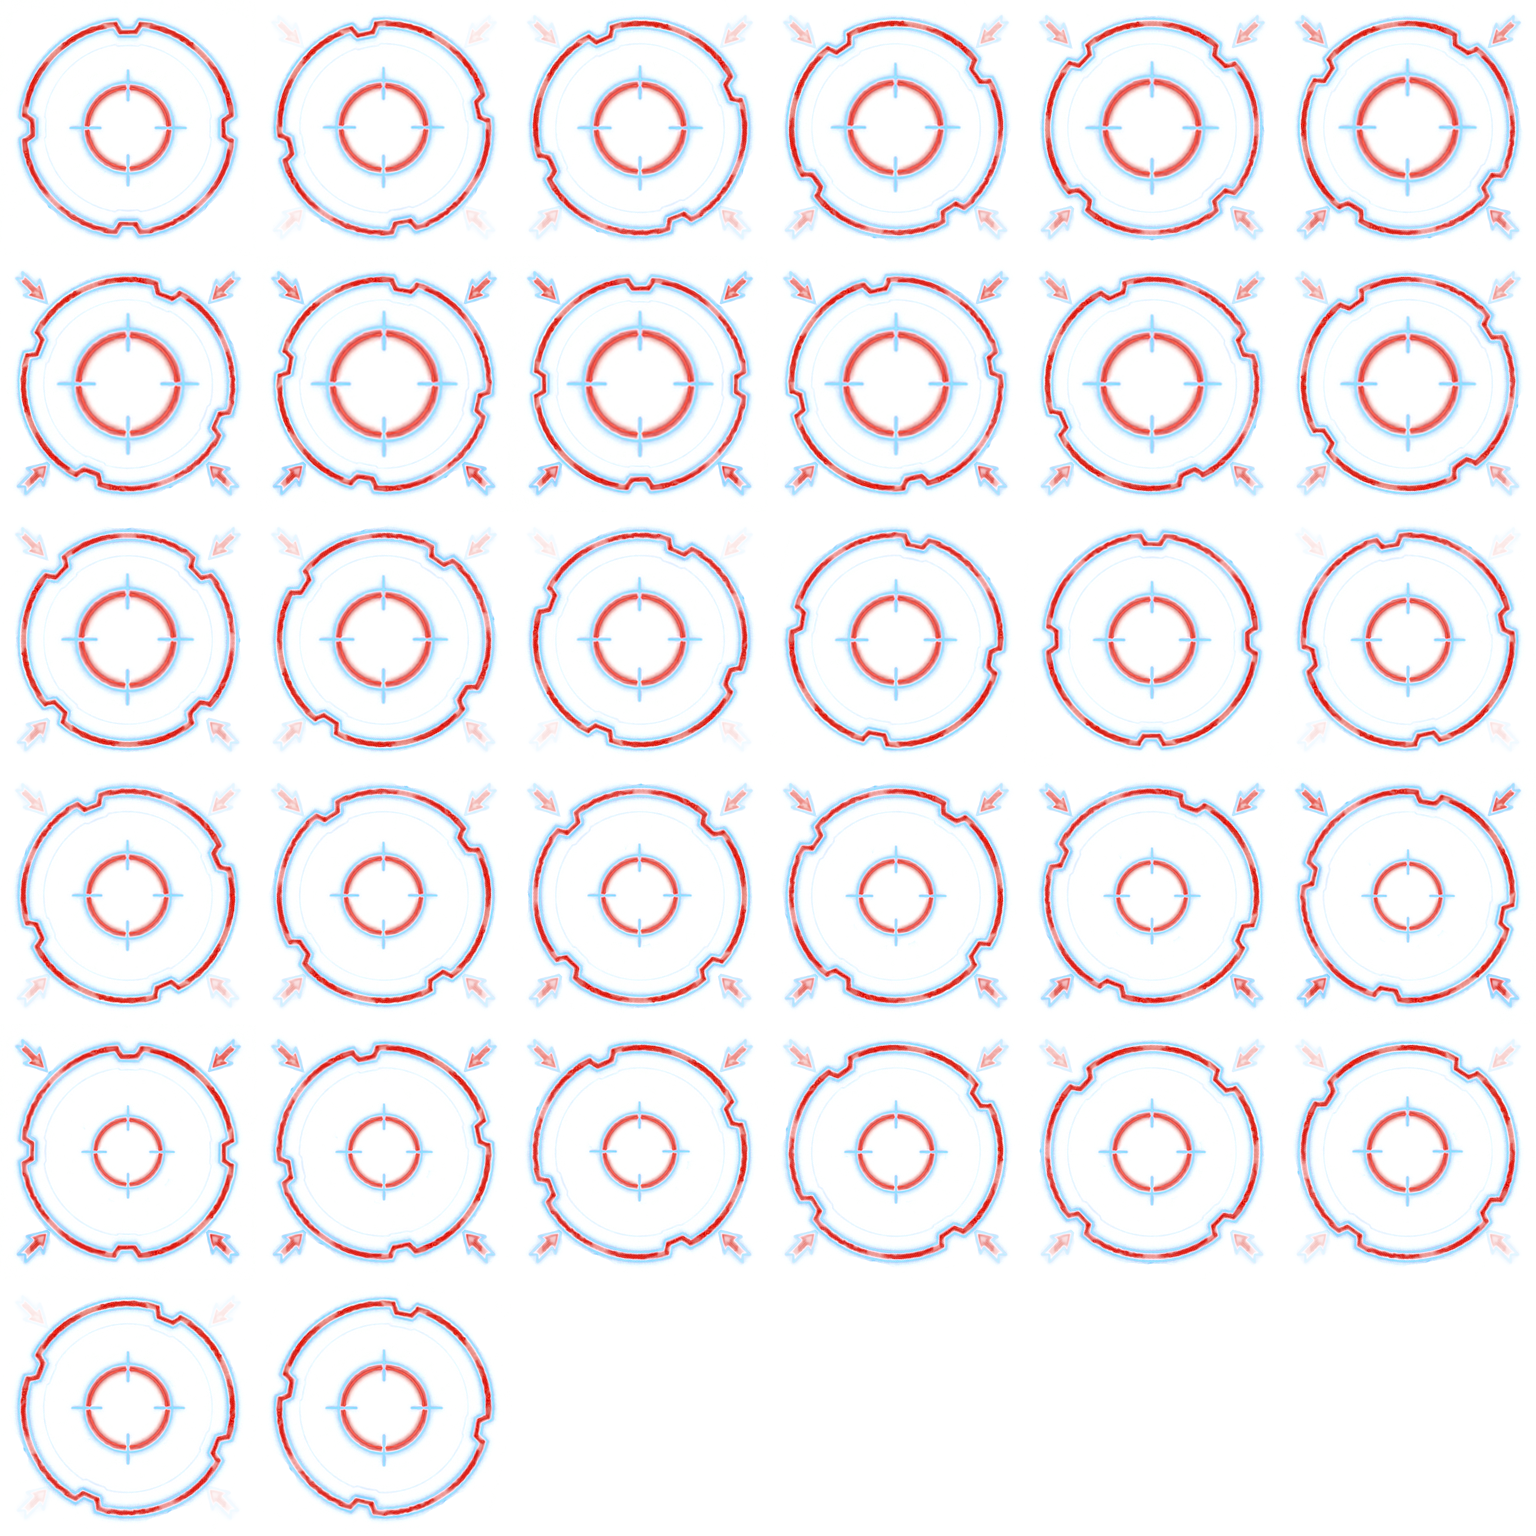
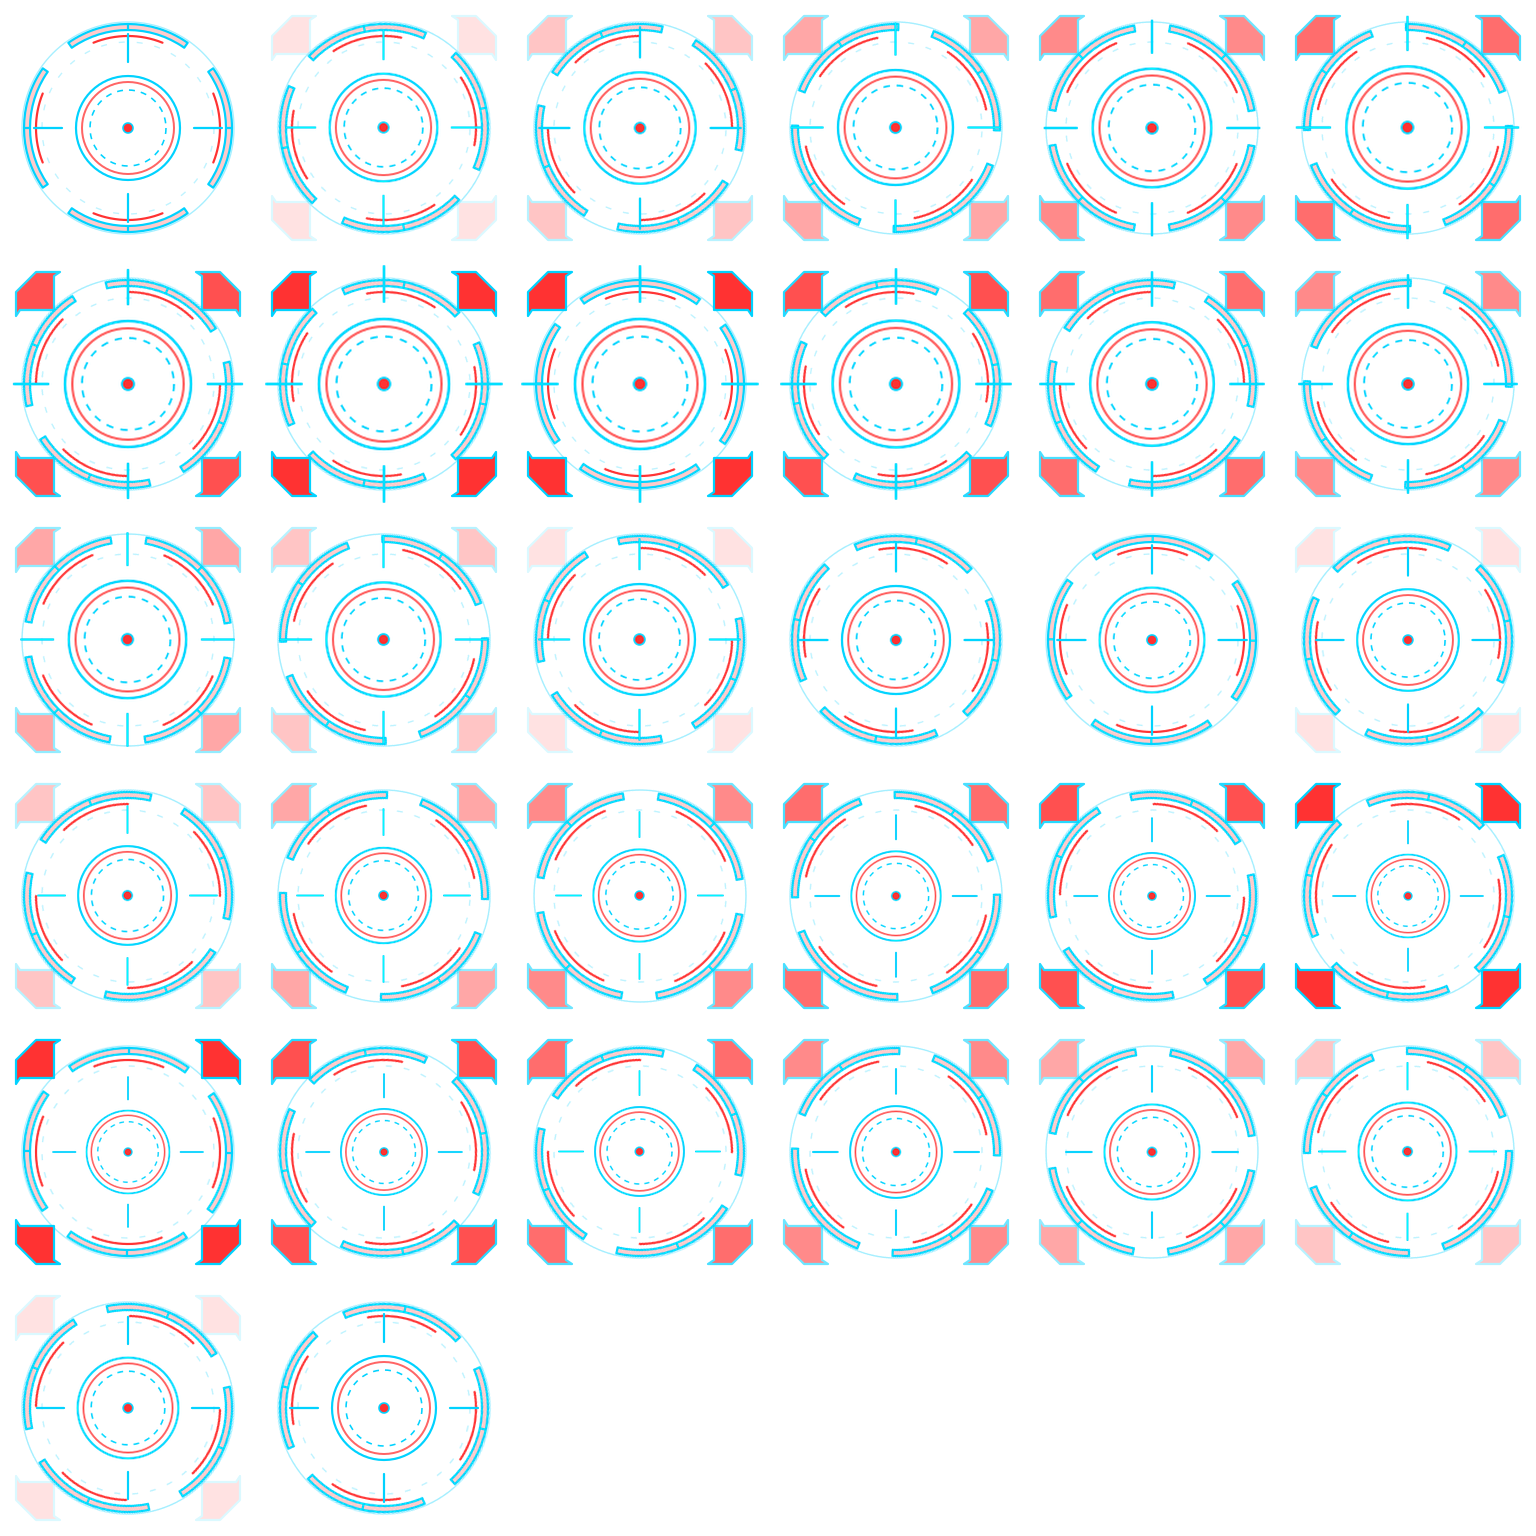
Convert selection reticles to vector SVGs and fix multi-span bitmap scaling
- Convert selection-arrows, selection-outline, selection-reticle, and selection-2 from AI cutouts to clean vector SVGs with exact 4-fold rotational and reflectional symmetry
- Create tools/svg_reticle_gen.py with automatic stroke-width scaling (256 / size) to ensure uniform line thickness (~2px) across all entity spans (1x1 through 4x4)
- Update art/gen_ui.sh to generate span-specific 32-frame animated spritesheets (ui-selection-1x1..4x4 and ui-selection-mod-1x1..4x4)
- Register new multi-span reticle assets in src/resources/tileset-geometry.ts
- Update TileActor to dynamically resolve selectionTile references to the entity's exact grid span without bitmap scaling artifacts
- Remove unreferenced legacy source PNGs from art/ui/

Changed region(s): [[0.0, 0.0, 1.0, 1.0]]

diff --git a/src/scene/tile-actor.ts b/src/scene/tile-actor.ts
@@ -169,6 +169,30 @@ export class TileActor extends ex.Actor {
     this.graphics.use(graphic);
   }
 
+  private resolveSelectionTileRef(ref: TileRef): TileRef {
+    const span = Math.max(1, Math.min(4, Math.max(this.colSpan, this.rowSpan)));
+    if (typeof ref === "string") {
+      if (ref === "ui-selection" || ref.startsWith("ui-selection:")) {
+        const id = ref.includes(":") ? ref.split(":")[1] : "0";
+        return `ui-selection-${span}x${span}:${id}`;
+      }
+      if (ref === "ui-selection-2" || ref.startsWith("ui-selection-2:")) {
+        const id = ref.includes(":") ? ref.split(":")[1] : "0";
+        return `ui-selection-mod-${span}x${span}:${id}`;
+      }
+      return ref;
+    }
+    if (typeof ref === "object" && ref !== null) {
+      if (ref.tile === "ui-selection") {
+        return { ...ref, tile: `ui-selection-${span}x${span}` };
+      }
+      if (ref.tile === "ui-selection-2") {
+        return { ...ref, tile: `ui-selection-mod-${span}x${span}` };
+      }
+    }
+    return ref;
+  }
+
   private setSelectionVisible(visible: boolean): void {
     for (const v of this.selectionVisuals) {
       v.graphics.isVisible = visible;
@@ -302,7 +326,8 @@ export class TileActor extends ex.Actor {
     });
 
     if (this.selectionTile !== null) {
-      const selGraphic = parseTileRef(this.selectionTile);
+      const resolvedRef = this.resolveSelectionTileRef(this.selectionTile);
+      const selGraphic = parseTileRef(resolvedRef);
       const selActor = new ex.Actor({
         anchor: ex.vec(0.5, 0.5),
         scale: ex.vec(

diff --git a/src/resources/tileset-geometry.ts b/src/resources/tileset-geometry.ts
@@ -47,7 +47,15 @@ export const TILESET_GEOMETRY: TilesetGeometry[] = [
   { name: "test-tileset", cols: 4, rows: 1, tileSize: 32 },
   { name: "ship-tiles", cols: 6, rows: 6, tileSize: 64 },
   { name: "ui-selection", tileSize: 256, ...CANONICAL_ANIM },
+  { name: "ui-selection-1x1", tileSize: 64, ...CANONICAL_ANIM },
+  { name: "ui-selection-2x2", tileSize: 128, ...CANONICAL_ANIM },
+  { name: "ui-selection-3x3", tileSize: 192, ...CANONICAL_ANIM },
+  { name: "ui-selection-4x4", tileSize: 256, ...CANONICAL_ANIM },
   { name: "ui-selection-2", tileSize: 256, ...CANONICAL_ANIM },
+  { name: "ui-selection-mod-1x1", tileSize: 64, ...CANONICAL_ANIM },
+  { name: "ui-selection-mod-2x2", tileSize: 128, ...CANONICAL_ANIM },
+  { name: "ui-selection-mod-3x3", tileSize: 192, ...CANONICAL_ANIM },
+  { name: "ui-selection-mod-4x4", tileSize: 256, ...CANONICAL_ANIM },
   { name: "ss1-base", tileSize: 256, ...CANONICAL_ANIM },
   { name: "ss1-damaged", tileSize: 256, ...CANONICAL_ANIM },
   { name: "cs1-base", tileSize: 64, ...CANONICAL_ANIM },

diff --git a/tools/svg_reticle_gen.py b/tools/svg_reticle_gen.py
@@ -1,0 +1,129 @@
+#!/usr/bin/env python3
+"""
+SVG Reticle Generator
+
+Reads a selection reticle SVG file (e.g. selection-arrows.svg, selection-outline.svg,
+selection-reticle.svg, selection-2.svg), substitutes #COLOR1 and #COLOR2 with hex
+colors, automatically scales stroke-width across target sizes (64px, 128px, 192px, 256px)
+so that line thickness in rendered screen pixels is exactly consistent among all 4 sizes,
+and renders to a PNG using rsvg-convert.
+
+Usage:
+    python3 svg_reticle_gen.py \
+        --source art/ui/selection-arrows.svg \
+        --size 64 \
+        --dest art/ui/rendered/selection-arrows-64.png \
+        --color1 "#FFFFFF" --color2 "#00d2ff"
+"""
+
+import argparse
+import os
+import re
+import shutil
+import subprocess
+import sys
+import tempfile
+import uuid
+from PIL import Image
+
+
+def find_rsvg_convert() -> str | None:
+    """Return the explicitly supported SVG renderer from librsvg."""
+    return shutil.which("rsvg-convert")
+
+
+def render_svg_to_image(svg_content: str, width: int, height: int, work_dir: str) -> Image.Image:
+    unique_id = uuid.uuid4().hex
+    tmp_svg = os.path.join(work_dir, f"temp_reticle_{unique_id}.svg")
+    tmp_png = os.path.join(work_dir, f"temp_reticle_{unique_id}.png")
+
+    try:
+        with open(tmp_svg, "w", encoding="utf-8") as f:
+            f.write(svg_content)
+
+        rsvg_bin = find_rsvg_convert()
+        if not rsvg_bin:
+            raise RuntimeError(
+                "SVG rendering requires rsvg-convert from librsvg; install it with `brew install librsvg`."
+            )
+
+        result = subprocess.run(
+            [rsvg_bin, "-w", str(width), "-h", str(height), tmp_svg, "-o", tmp_png],
+            capture_output=True,
+            text=True,
+        )
+        if result.returncode != 0:
+            diagnostics = result.stderr.strip() or result.stdout.strip() or "no diagnostic output"
+            raise RuntimeError(
+                f"rsvg-convert failed with exit code {result.returncode}: {diagnostics}"
+            )
+        if not os.path.exists(tmp_png):
+            raise RuntimeError("rsvg-convert exited successfully but did not produce a PNG output file.")
+        return Image.open(tmp_png).convert("RGBA")
+    finally:
+        if os.path.exists(tmp_svg):
+            os.remove(tmp_svg)
+        if os.path.exists(tmp_png):
+            os.remove(tmp_png)
+
+
+def adjust_stroke_widths(svg_content: str, size: int) -> str:
+    """
+    Scale all stroke-width values by (256.0 / size) so that lines maintain an exact,
+    consistent thickness in rendered output screen pixels across all 4 sizes
+    (64px, 128px, 192px, 256px).
+    """
+    scale_factor = 256.0 / float(size)
+    if abs(scale_factor - 1.0) < 1e-4:
+        return svg_content
+
+    def repl(match):
+        val = float(match.group(1))
+        new_val = val * scale_factor
+        return f'stroke-width="{new_val:.2f}"'
+
+    return re.sub(r'stroke-width="([\d.]+)"', repl, svg_content)
+
+
+def main():
+    parser = argparse.ArgumentParser(description="Render SVG selection reticle to specific target dimensions.")
+    parser.add_argument("-s", "--source", required=True, help="Source SVG file path")
+    parser.add_argument("-z", "--size", type=int, default=256, help="Target cell side length in px (default: 256)")
+    parser.add_argument("-d", "--dest", required=True, help="Destination PNG path")
+    parser.add_argument("--color1", default="#ff3232", help="Primary color hex (replaces #COLOR1, default: #ff3232)")
+    parser.add_argument("--color2", default="#00d2ff", help="Secondary color hex (replaces #COLOR2, default: #00d2ff)")
+    parser.add_argument("--no-adjust-strokes", action="store_true", help="Disable automatic stroke-width adjustment")
+
+    args = parser.parse_args()
+
+    if not os.path.exists(args.source):
+        print(f"Error: source SVG not found: {args.source}", file=sys.stderr)
+        sys.exit(1)
+
+    with open(args.source, "r", encoding="utf-8") as f:
+        svg_content = f.read()
+
+    # Substitute colors
+    for tag in ["#COLOR1", "#color1", "COLOR1_HEX"]:
+        svg_content = svg_content.replace(tag, args.color1)
+    for tag in ["#COLOR2", "#color2", "COLOR2_HEX"]:
+        svg_content = svg_content.replace(tag, args.color2)
+
+    if not args.no_adjust_strokes:
+        svg_content = adjust_stroke_widths(svg_content, args.size)
+
+    work_parent = os.path.dirname(os.path.abspath(__file__))
+    tmp_dir = tempfile.mkdtemp(prefix=".tmp_reticle_", dir=work_parent)
+
+    try:
+        img = render_svg_to_image(svg_content, args.size, args.size, tmp_dir)
+        os.makedirs(os.path.dirname(os.path.abspath(args.dest)), exist_ok=True)
+        img.save(args.dest)
+        print(f"Rendered reticle base ({args.size}x{args.size}px): {args.source} -> {args.dest}")
+    finally:
+        if os.path.exists(tmp_dir):
+            shutil.rmtree(tmp_dir, ignore_errors=True)
+
+
+if __name__ == "__main__":
+    main()
